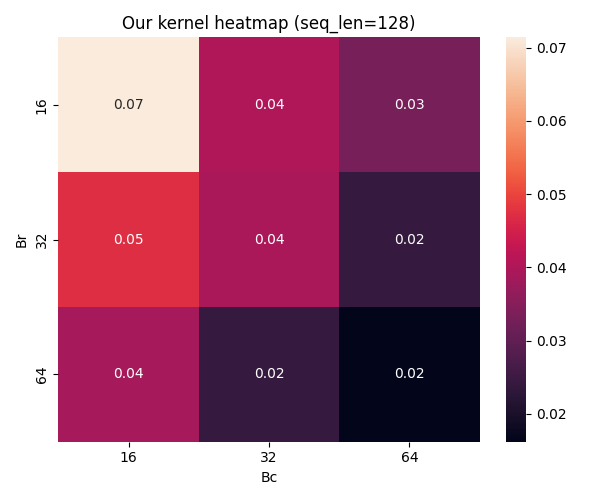
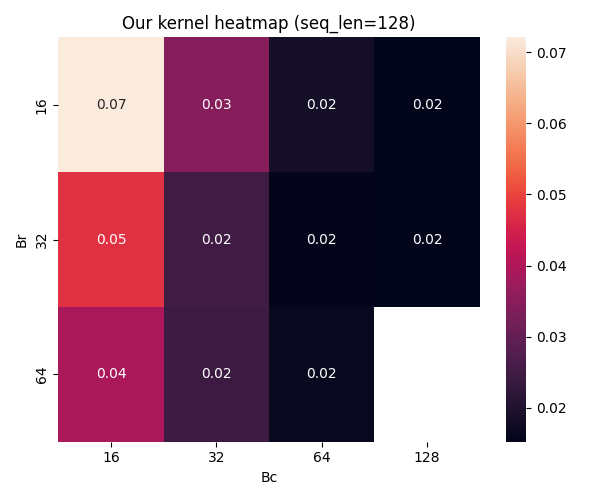
fix bug with Bc > D
fix illegal memory access when Bc > D in O+=AxV matmul
add Bc = 128 size to benchmarks

diff --git a/src/test_perf.py b/src/test_perf.py
@@ -21,6 +21,7 @@ set_seed(42)
 
 IS_BENCH = "-bench" in sys.argv
 IS_DEBUG = "-debug" in sys.argv
+NEED_DIFF = "-diff" in sys.argv
 
 # cuda_build folder path
 current_dir = os.path.dirname(os.path.abspath(__file__))
@@ -46,11 +47,11 @@ attentionBlock = MultiHeadAttentionBlock(d_model, num_heads, dropout=0.0).cuda()
 results = []
 num_iters = 1000 if IS_BENCH else 1 if IS_DEBUG else 50
 num_warms = 100 if IS_BENCH else 0 if IS_DEBUG else 5
-Br = 64 if IS_BENCH else 64
-Bc = 64 if IS_BENCH else 64
+Br = 32 if IS_BENCH else 32
+Bc = 128 if IS_BENCH else 128
 # Br sweep (powers of two, starting from 16)
 Br_list = [16, 32, 64]
-Bc_list = [16, 32, 64]
+Bc_list = [16, 32, 64, 128]
 our_kernel_sweep_results = []  # (seq_len, Br, Bc, time_ms)
 
 for seq_len in seq_lens:
@@ -202,6 +203,7 @@ for seq_len in seq_lens:
 
     for br_now in Br_list:
         for bc_now in Bc_list:
+            if bc_now == 128 and br_now == 64: continue # over smem limit for D >= 64
             # warm-up
             for _ in range(num_warms):
                 with torch.no_grad():
@@ -234,10 +236,65 @@ with open(csv_path, "w", newline="") as f:
     writer.writerows(results)
 print(f"results saved to {csv_path}")
 
+# diff vs previous run
 csv_path_sweep = os.path.join(benchmarks_dir, 'our_kernel_sweep.csv')
-with open(csv_path_sweep, "w", newline="") as f:
-    writer = csv.writer(f)
-    writer.writerow(["seq_len", "Br", "Bc", "time_ms"])
-    writer.writerows(our_kernel_sweep_results)
+if NEED_DIFF:
+    diff_csv_path = os.path.join(benchmarks_dir, 'our_kernel_sweep_diff.csv')
 
-print(f"Sweep results saved to {csv_path_sweep}")
+    ABS_THRESHOLD_MS = 0.03      # 0.03 ms
+    REL_THRESHOLD = 0.03         # 3%
+
+    if os.path.exists(csv_path_sweep):
+        prev_data = {}
+
+        with open(csv_path_sweep, "r") as f:
+            reader = csv.DictReader(f)
+            for row in reader:
+                key = (int(row["seq_len"]), int(row["Br"]), int(row["Bc"]))
+                prev_data[key] = float(row["time_ms"])
+
+        diff_rows = []
+
+        for seq_len, br, bc, new_time in our_kernel_sweep_results:
+            key = (seq_len, br, bc)
+
+            if key not in prev_data:
+                continue
+
+            old_time = prev_data[key]
+
+            diff = new_time - old_time
+            rel = abs(diff) / (old_time + 1e-9)
+
+            # пропускаем шум
+            if abs(diff) < ABS_THRESHOLD_MS and rel < REL_THRESHOLD:
+                continue
+
+            speedup = old_time / new_time if new_time > 0 else 0.0
+
+            diff_rows.append((
+                seq_len, br, bc,
+                old_time, new_time,
+                diff,
+                speedup
+            ))
+
+        if diff_rows:
+            with open(diff_csv_path, "w", newline="") as f:
+                writer = csv.writer(f)
+                writer.writerow([
+                    "seq_len", "Br", "Bc",
+                    "old_ms", "new_ms",
+                    "diff_ms", "speedup_x"
+                ])
+                writer.writerows(diff_rows)
+
+            print(f"Perf diff saved to {diff_csv_path}")
+
+    # sweep save
+    with open(csv_path_sweep, "w", newline="") as f:
+        writer = csv.writer(f)
+        writer.writerow(["seq_len", "Br", "Bc", "time_ms"])
+        writer.writerows(our_kernel_sweep_results)
+
+    print(f"Sweep results saved to {csv_path_sweep}")
